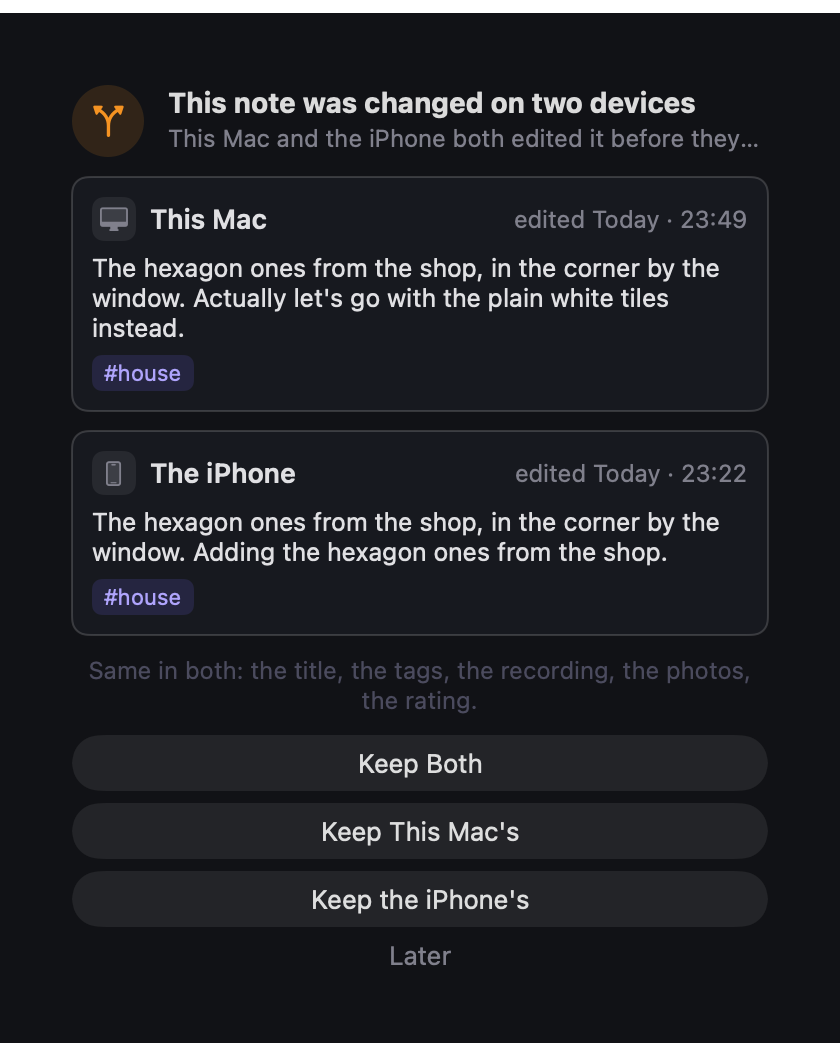
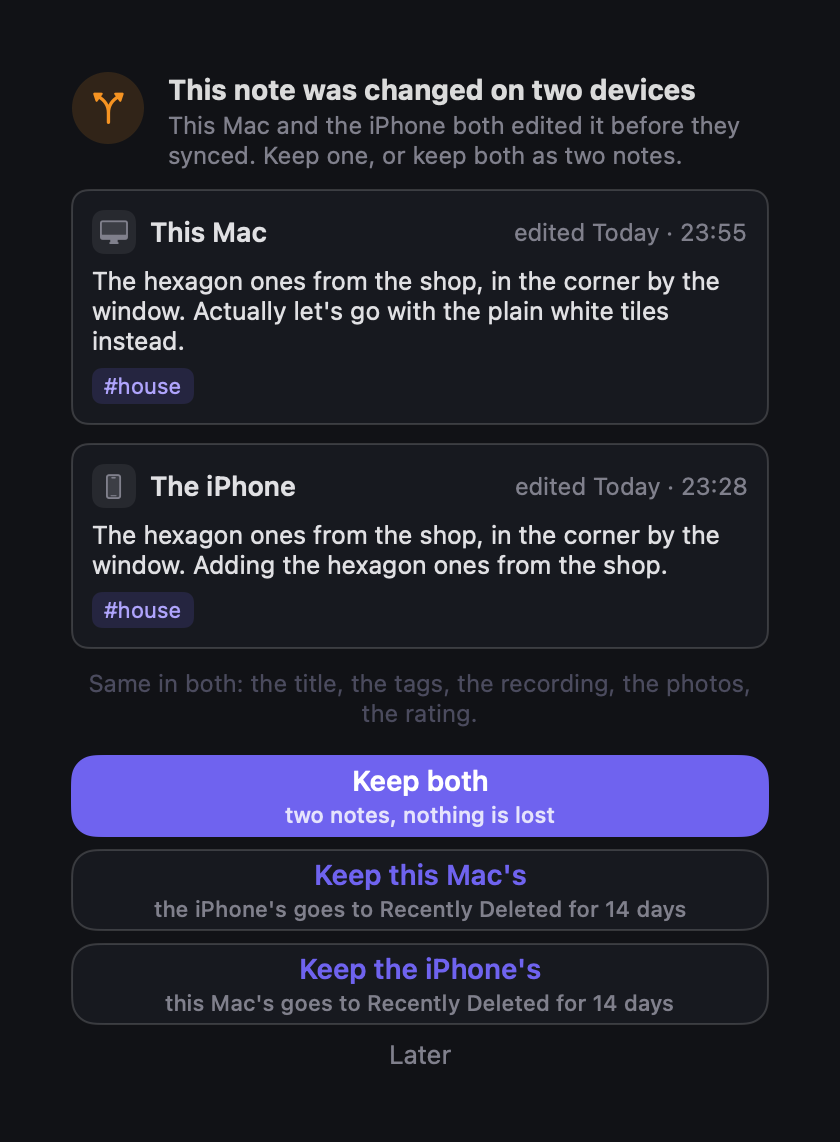
Q39: fix Mac conflict prompt (subtitle wrap, Keep-both prominence)
The Mac header subtitle truncated to "…" — the HStack row gave it only
a first-pass single-line height; add fixedSize(vertical:true) like the
version cards already do. Replace .bordered/.borderedProminent system
buttons (hostPNG misdraws system chrome) with the same custom pillButton
the phone uses, so Keep both is filled/prominent with its "two notes,
nothing is lost" sub-line and "Keep both" matches the phone's case.

iPad UI test: two pages share the "detail-title" identifier (the pager
realises the current + adjacent memo) — disambiguate by element index
instead of app.textFields[...], which threw "Multiple matching elements".

Re-rendered mac-prompt.png via -snapshot-conflict.

diff --git a/Skrift_Native/Shared/UI/EditConflictViews.swift b/Skrift_Native/Shared/UI/EditConflictViews.swift
@@ -59,28 +59,31 @@ struct EditConflictPrompt: View {
             }
             Divider()
             VStack(spacing: 7) {
-                phoneButton("Keep both", sub: "two notes, nothing is lost", primary: true) { onPick(.keepBoth) }
+                pillButton("Keep both", sub: "two notes, nothing is lost", primary: true) { onPick(.keepBoth) }
                     .accessibilityIdentifier("conflict-keep-both")
-                phoneButton("Keep \(thisName(hereKind))'s",
-                            sub: "\(otherName(there.deviceKind))'s goes to Recently Deleted for 14 days") { onPick(.keepThis) }
+                pillButton("Keep \(thisName(hereKind))'s",
+                           sub: "\(otherName(there.deviceKind))'s goes to Recently Deleted for 14 days") { onPick(.keepThis) }
                     .accessibilityIdentifier("conflict-keep-this")
-                phoneButton("Keep \(otherName(there.deviceKind))'s",
-                            sub: "\(thisName(hereKind))'s goes to Recently Deleted for 14 days") { onPick(.keepOther) }
+                pillButton("Keep \(otherName(there.deviceKind))'s",
+                           sub: "\(thisName(hereKind))'s goes to Recently Deleted for 14 days") { onPick(.keepOther) }
                     .accessibilityIdentifier("conflict-keep-other")
             }
             .padding(.horizontal, 16).padding(.top, 10).padding(.bottom, 20)
         }
     }
 
-    private func phoneButton(_ title: String, sub: String, primary: Bool = false,
-                             action: @escaping () -> Void) -> some View {
+    /// Custom-drawn (never system `.bordered`/`.borderedProminent` chrome): the headless
+    /// hostPNG snapshot path is known to misdraw system button chrome, and this way the
+    /// phone and the Mac render the identical pill, just at different scale (Q39).
+    private func pillButton(_ title: String, sub: String, primary: Bool = false,
+                            action: @escaping () -> Void) -> some View {
         Button(action: action) {
             VStack(spacing: 2) {
-                Text(title).font(.system(size: 16, weight: .semibold))
-                Text(sub).font(.system(size: 11.5, weight: .medium))
+                Text(title).font(.system(size: look == .phone ? 16 : 14, weight: .semibold))
+                Text(sub).font(.system(size: look == .phone ? 11.5 : 11, weight: .medium))
                     .foregroundStyle(primary ? Color.white.opacity(0.82) : style.textDim)
             }
-            .frame(maxWidth: .infinity, minHeight: 48)
+            .frame(maxWidth: .infinity, minHeight: look == .phone ? 48 : 40)
             .foregroundStyle(primary ? Color.white : style.accent)
             .background(primary ? style.accent : style.surface, in: RoundedRectangle(cornerRadius: 12))
             .overlay(RoundedRectangle(cornerRadius: 12).stroke(primary ? style.accent : style.border, lineWidth: 1))
@@ -96,14 +99,15 @@ struct EditConflictPrompt: View {
             versionCard(here, isHere: true)
             versionCard(there, isHere: false)
             sameLine
-            VStack(spacing: 6) {
-                Button { onPick(.keepBoth) } label: { Text("Keep Both").frame(maxWidth: .infinity) }
+            VStack(spacing: 7) {
+                pillButton("Keep both", sub: "two notes, nothing is lost", primary: true) { onPick(.keepBoth) }
                     .keyboardShortcut(.defaultAction)
-                    .buttonStyle(.borderedProminent)
                     .accessibilityIdentifier("conflict-keep-both")
-                Button { onPick(.keepThis) } label: { Text("Keep \(thisName(hereKind).capitalizedFirst)'s").frame(maxWidth: .infinity) }
+                pillButton("Keep \(thisName(hereKind))'s",
+                           sub: "\(otherName(there.deviceKind))'s goes to Recently Deleted for 14 days") { onPick(.keepThis) }
                     .accessibilityIdentifier("conflict-keep-this")
-                Button { onPick(.keepOther) } label: { Text("Keep \(otherName(there.deviceKind))'s").frame(maxWidth: .infinity) }
+                pillButton("Keep \(otherName(there.deviceKind))'s",
+                           sub: "\(thisName(hereKind))'s goes to Recently Deleted for 14 days") { onPick(.keepOther) }
                     .accessibilityIdentifier("conflict-keep-other")
                 Button("Later", action: onLater)
                     .buttonStyle(.plain)
@@ -111,7 +115,7 @@ struct EditConflictPrompt: View {
                     .keyboardShortcut(.cancelAction)
                     .accessibilityIdentifier("conflict-later")
             }
-            .controlSize(.large)
+            .padding(.top, 4)
         }
         .padding(16)
         .frame(width: 380)

diff --git a/Skrift_Native/SkriftMobile/SkriftMobileUITests/EditConflictQ39UITests.swift b/Skrift_Native/SkriftMobile/SkriftMobileUITests/EditConflictQ39UITests.swift
@@ -67,7 +67,11 @@ final class EditConflictQ39UITests: XCTestCase {
         XCTAssertTrue(banner.waitForExistence(timeout: 5), "the amber banner did not appear on the workbench after Later")
         capture(app, "ipad-workbench-blocked")
 
-        let title = app.textFields["detail-title"]
+        // The pager keeps an adjacent page realised (a different memo, its OWN "detail-title"
+        // field) — two matches for the identifier, so pick the CURRENT page's (index 0; the
+        // conflicted memo is page 0 since `-selectFirstMemo` selects the newest, and the pager
+        // realises the current page before its neighbour).
+        let title = app.descendants(matching: .any).matching(identifier: "detail-title").element(boundBy: 0)
         XCTAssertTrue(title.waitForExistence(timeout: 5), "the note title field is missing")
         XCTAssertFalse(title.isEnabled, "the note stayed editable with an unresolved conflict — a third version could land")
     }
